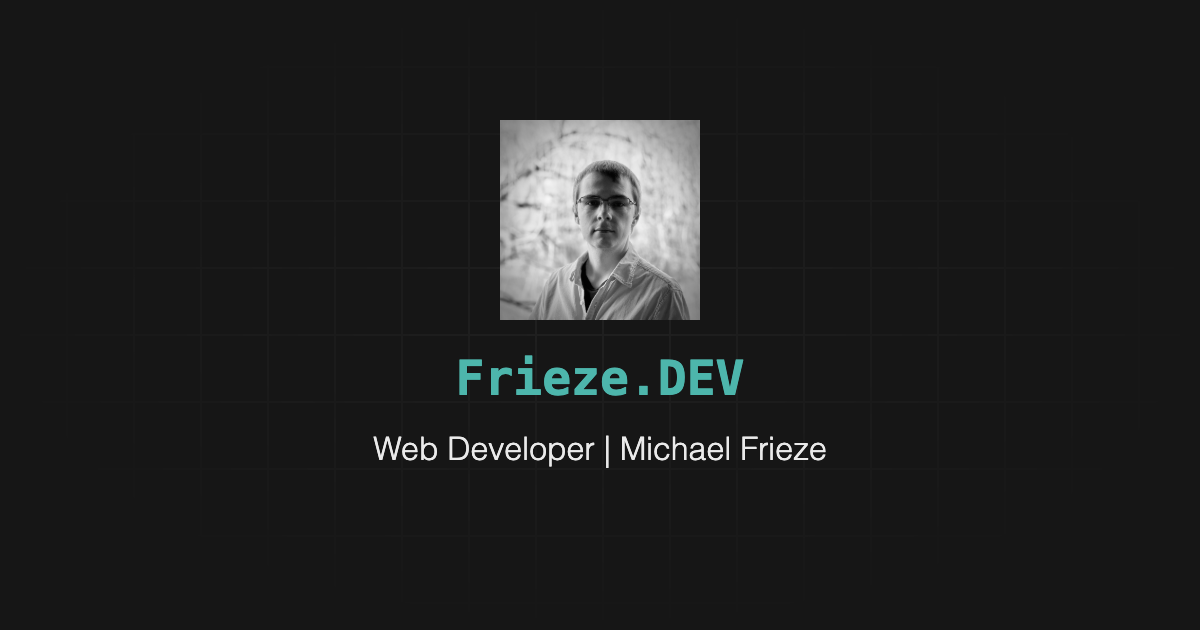
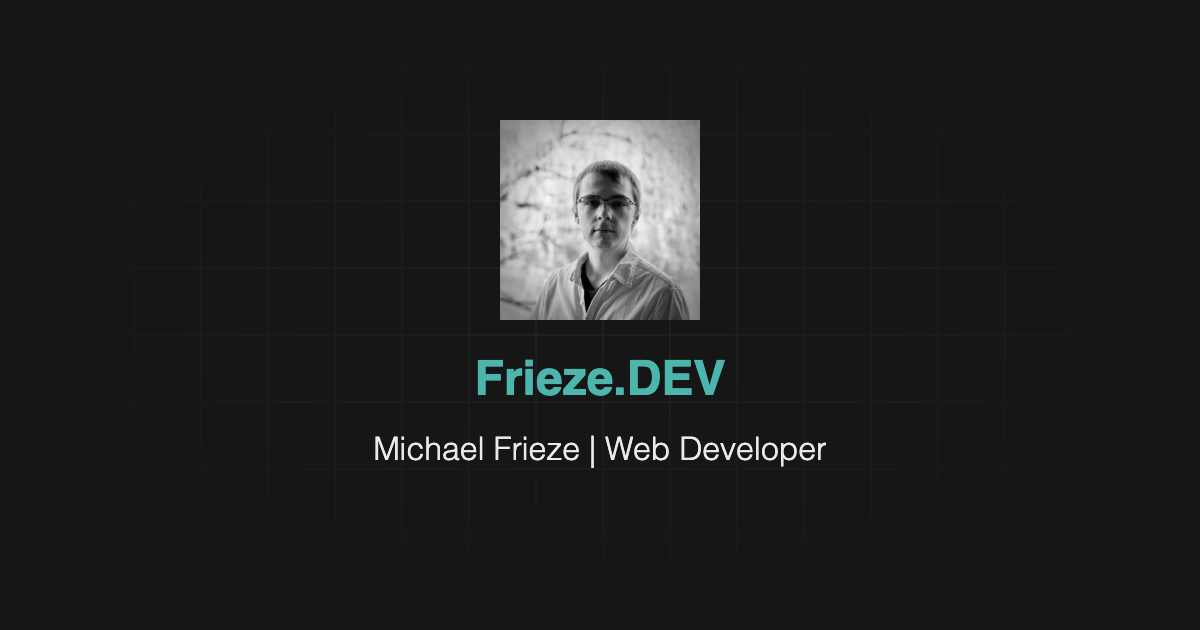
feat: update og image

Changed region(s): [[0.3083, 0.6937, 0.7092, 0.754], [0.37, 0.573, 0.6167, 0.6333]]

diff --git a/src/consts.ts b/src/consts.ts
@@ -6,7 +6,7 @@ export const SITE: Site = {
     "I'm Michael Frieze, a web developer in Metro Detroit. This site is where I share the nerdy stuff I'm into and projects I'm working on.",
   href: 'https://frieze.dev',
   author: 'Michael Frieze',
-  defaultOgTitle: 'Frieze.DEV — Web Developer | Michael Frieze',
+  defaultOgTitle: 'Frieze.DEV — Michael Frieze | Web Developer',
   locale: 'en-US',
   featuredPostCount: 2,
   postsPerPage: 3,
